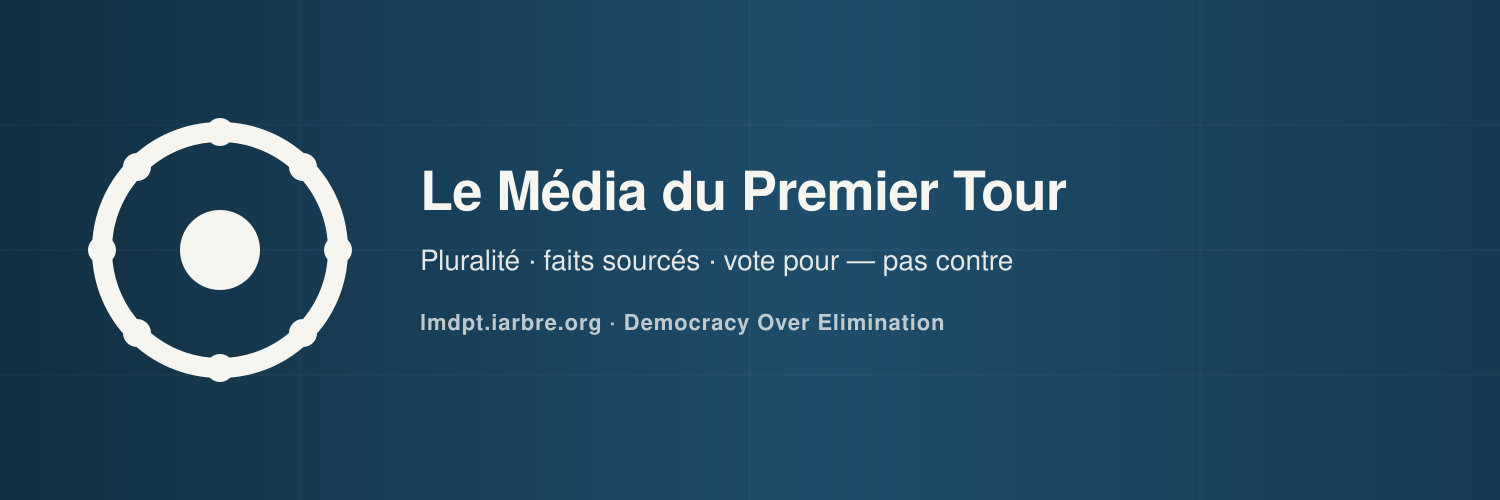
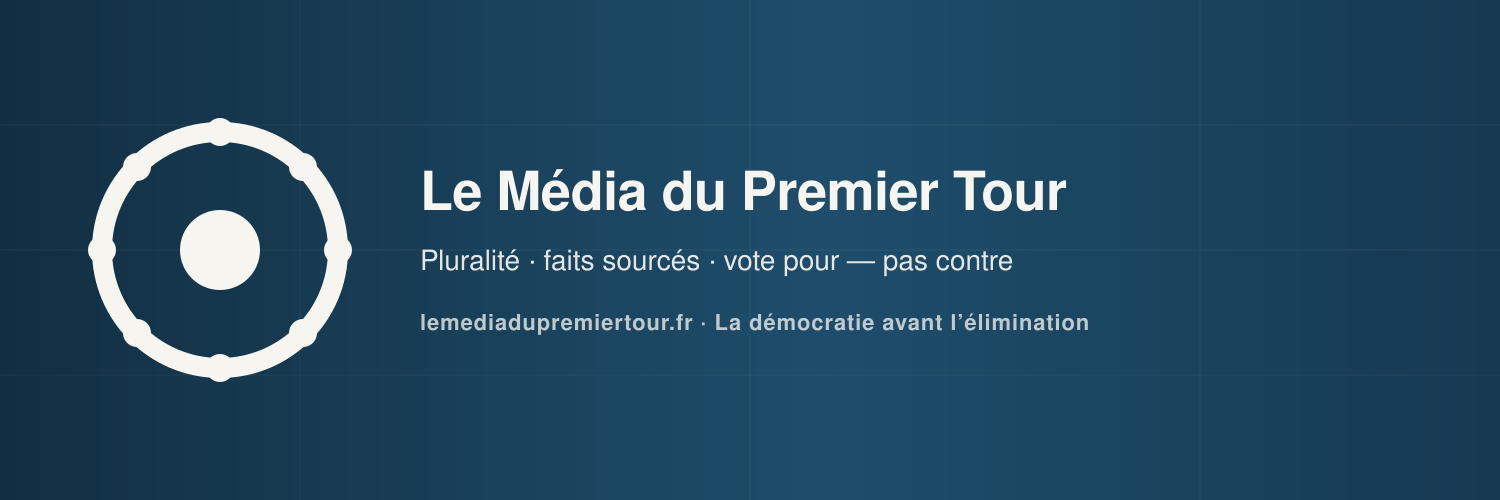
feat(seo): terminer le basculement canonique vers lemediadupremiertour.fr
Complète le cutover préparé en 109cf89 : exemple ASTRO_SITE, défauts comments-api,
docs de build, visuels brand, sameAs LinkedIn, sitemaps régénérés (94 <loc> en .fr).

Ne pas merger sans GO cutover d'ELS. Le .fr reste en noindex côté Traefik jusqu'au cutover.

Changed region(s): [[0.276, 0.63, 0.736, 0.66]]

diff --git a/src/lib/seo.ts b/src/lib/seo.ts
@@ -99,7 +99,11 @@ export function organizationJsonLd(siteUrl: string) {
     },
     description: DEFAULT_DESCRIPTION,
     foundingDate: '2026',
-    sameAs: ['https://x.com/LMDuPremierTour', 'https://github.com/ELServicesToulon/LMDPT'],
+    sameAs: [
+      'https://x.com/LMDuPremierTour',
+      'https://github.com/ELServicesToulon/LMDPT',
+      'https://www.linkedin.com/company/lemediadupremiertour',
+    ],
     publishingPrinciples: `${base}/charte/`,
     ethicsPolicy: `${base}/charte/`,
     masthead: `${base}/a-propos/`,

diff --git a/src/lib/seo.test.ts b/src/lib/seo.test.ts
@@ -78,6 +78,7 @@ describe('JSON-LD', () => {
     const org = organizationJsonLd('https://lmdpt.iarbre.org');
     expect(org['@type']).toBe('NewsMediaOrganization');
     expect(org.sameAs).toContain('https://x.com/LMDuPremierTour');
+    expect(org.sameAs).toContain('https://www.linkedin.com/company/lemediadupremiertour');
     expect(org.publishingPrinciples).toContain('/charte');
     expect(org.logo.url).toBe(`https://lmdpt.iarbre.org${DEFAULT_OG_IMAGE}`);
   });

diff --git a/docs/GOOGLE-SEO.md b/docs/GOOGLE-SEO.md
@@ -1,6 +1,6 @@
 # Outils Google gratuits — référencement LMDPT
 
-**Site** : https://lmdpt.iarbre.org  
+**Site** : https://lemediadupremiertour.fr  
 **Date** : 2026-07-27 · **Ligne** : La démocratie avant l’élimination · **RGPD** : zéro traceur par défaut
 
 Ce document liste **tous les outils Google gratuits** utiles au référencement et ce qui est **câblé dans le site**.
@@ -76,7 +76,7 @@ Passer ces variables dans le build deploy (`deploy-lmdpt-ovh` lit le `process.en
 
 | # | Outil | Action | Preuve |
 |---|--------|--------|--------|
-| 1 | [Search Console](https://search.google.com/search-console) | Propriété `https://lmdpt.iarbre.org` (préfixe URL ou domaine `iarbre.org`) | Propriété vérifiée |
+| 1 | [Search Console](https://search.google.com/search-console) | Propriété historique `https://lmdpt.iarbre.org` (préfixe URL ou domaine `iarbre.org`) ; la canonique du site passe à `https://lemediadupremiertour.fr` | Propriété vérifiée |
 | 2 | Search Console | Soumettre **`/sitemap-index.xml`** | Sitemap « Succès » |
 | 3 | Search Console | Inspection d’URL sur `/` + 3 piliers | « URL dans Google » ou demandée |
 | 4 | [Publisher Center](https://publishercenter.google.com/) | Demande Google News / Discover (média civique) | Dossier soumis |
@@ -102,9 +102,9 @@ npm run build:fast          # sans renifleur
 Vérifications post-deploy :
 
 ```bash
-curl -sI https://lmdpt.iarbre.org/robots.txt | head -5
-curl -s https://lmdpt.iarbre.org/sitemap-index.xml | head -20
-curl -s https://lmdpt.iarbre.org/sitemap-news.xml | head -20
+curl -sI https://lemediadupremiertour.fr/robots.txt | head -5
+curl -s https://lemediadupremiertour.fr/sitemap-index.xml | head -20
+curl -s https://lemediadupremiertour.fr/sitemap-news.xml | head -20
 ```
 
 ---

diff --git a/README.md b/README.md
@@ -5,7 +5,7 @@
 Couvrir le premier tour avec des données publiques officielles (`data.gouv.fr`), sans éliminer ni caricaturer — la démocratie avant le spectacle.
 
 - **Dépôt** : [github.com/ELServicesToulon/LMDPT](https://github.com/ELServicesToulon/LMDPT)
-- **Site** : [lmdpt.iarbre.org](https://lmdpt.iarbre.org) (sous-domaine iarbre.org, GitHub Pages)
+- **Site** : [lemediadupremiertour.fr](https://lemediadupremiertour.fr) (URL publique canonique). `lmdpt.iarbre.org` reste une adresse historique / miroir.
 - **Ligne éditoriale** : [`docs/EDITORIAL.md`](docs/EDITORIAL.md)
 
 ## Stack
@@ -74,13 +74,13 @@ docs/           # éditorial, prompt Cursor, agent Grok
 
 Push sur `Main` → workflow GitHub Actions (`.github/workflows/deploy.yml`) : tests, `sync:data`, build, publication GitHub Pages.
 
-**Domaine** : `lmdpt.iarbre.org` — CNAME → `elservicestoulon.github.io` (zone Cloudflare `iarbre.org`, DNS only).
+**Domaine** : `lemediadupremiertour.fr` (canonique). `lmdpt.iarbre.org` reste une adresse historique / miroir — CNAME → `elservicestoulon.github.io` (zone Cloudflare `iarbre.org`, DNS only).
 
 ```bash
-npm run dns:iarbre    # crée/met à jour le CNAME (jeton IARBE_CLOUDFLARE_API_TOKEN)
+npm run dns:iarbre    # crée/met à jour le CNAME historique iarbre (jeton IARBE_CLOUDFLARE_API_TOKEN)
 ```
 
-Variables build CI : `ASTRO_SITE=https://lmdpt.iarbre.org`, `ASTRO_BASE=/`.
+Variables build CI : `ASTRO_SITE=https://lemediadupremiertour.fr`, `ASTRO_BASE=/`.
 
 **Cloudflare Web Analytics** (beacon cookieless) : `PUBLIC_CF_WEB_ANALYTICS_TOKEN` — jeton public documenté dans `.env.example`. Prod OVH KS-5-B : l’ajouter au `.env` Mediconvoi/backend puis `npm run deploy-lmdpt-ovh` (détail : `docs/SYNC-OPS.md`). `off` pour désactiver.
 

diff --git a/docs/SEO-AI-VISIBILITY.md b/docs/SEO-AI-VISIBILITY.md
@@ -21,7 +21,7 @@
 4. **JSON-LD** site-wide : `NewsMediaOrganization` + `WebSite` + `WebPage`/`Article`
 5. **Meta** : robots, keywords, hreflang fr, link sitemap + llms.txt
 6. **nginx** : locations exactes 404 si fichier manquant (plus de faux 200 HTML)
-7. **Build** : `seo:assets` avant `astro build` · site canonique `https://lmdpt.iarbre.org`
+7. **Build** : `seo:assets` avant `astro build` · site canonique `https://lemediadupremiertour.fr`
 
 ## Clusters de contenu (SEO sémantique)
 
@@ -47,7 +47,7 @@ Mots-clés cœur : *premier tour*, *présidentielle 2027*, *pluralité électora
 
 | # | Action | Preuve |
 |---|--------|--------|
-| 1 | Google Search Console — propriété `lmdpt.iarbre.org` + soumettre **sitemap-index.xml** | GSC |
+| 1 | Google Search Console — propriété historique `lmdpt.iarbre.org` + soumettre **sitemap-index.xml** (la canonique du site devient `https://lemediadupremiertour.fr`) | GSC |
 | 2 | Bing Webmaster Tools — idem | Bing |
 | 3 | (Option) IndexNow clé dans `public/` | doc Bing |
 | 4 | Bio X + pin + lien UTM (déjà brouillon Manusk) | X live |

diff --git a/comments-api/README.md b/comments-api/README.md
@@ -8,7 +8,7 @@ Voir [`docs/AUTH.md`](../docs/AUTH.md).
 # flags
 export LMDPT_AUTH_ENABLED=1
 export LMDPT_SESSION_SECRET='…'   # 32+ bytes
-export LMDPT_PUBLIC_URL=https://lmdpt.iarbre.org
+export LMDPT_PUBLIC_URL=https://lemediadupremiertour.fr
 # + secrets providers (Google / X / Apple / SMTP)
 
 node --test lib/auth/auth.test.mjs
